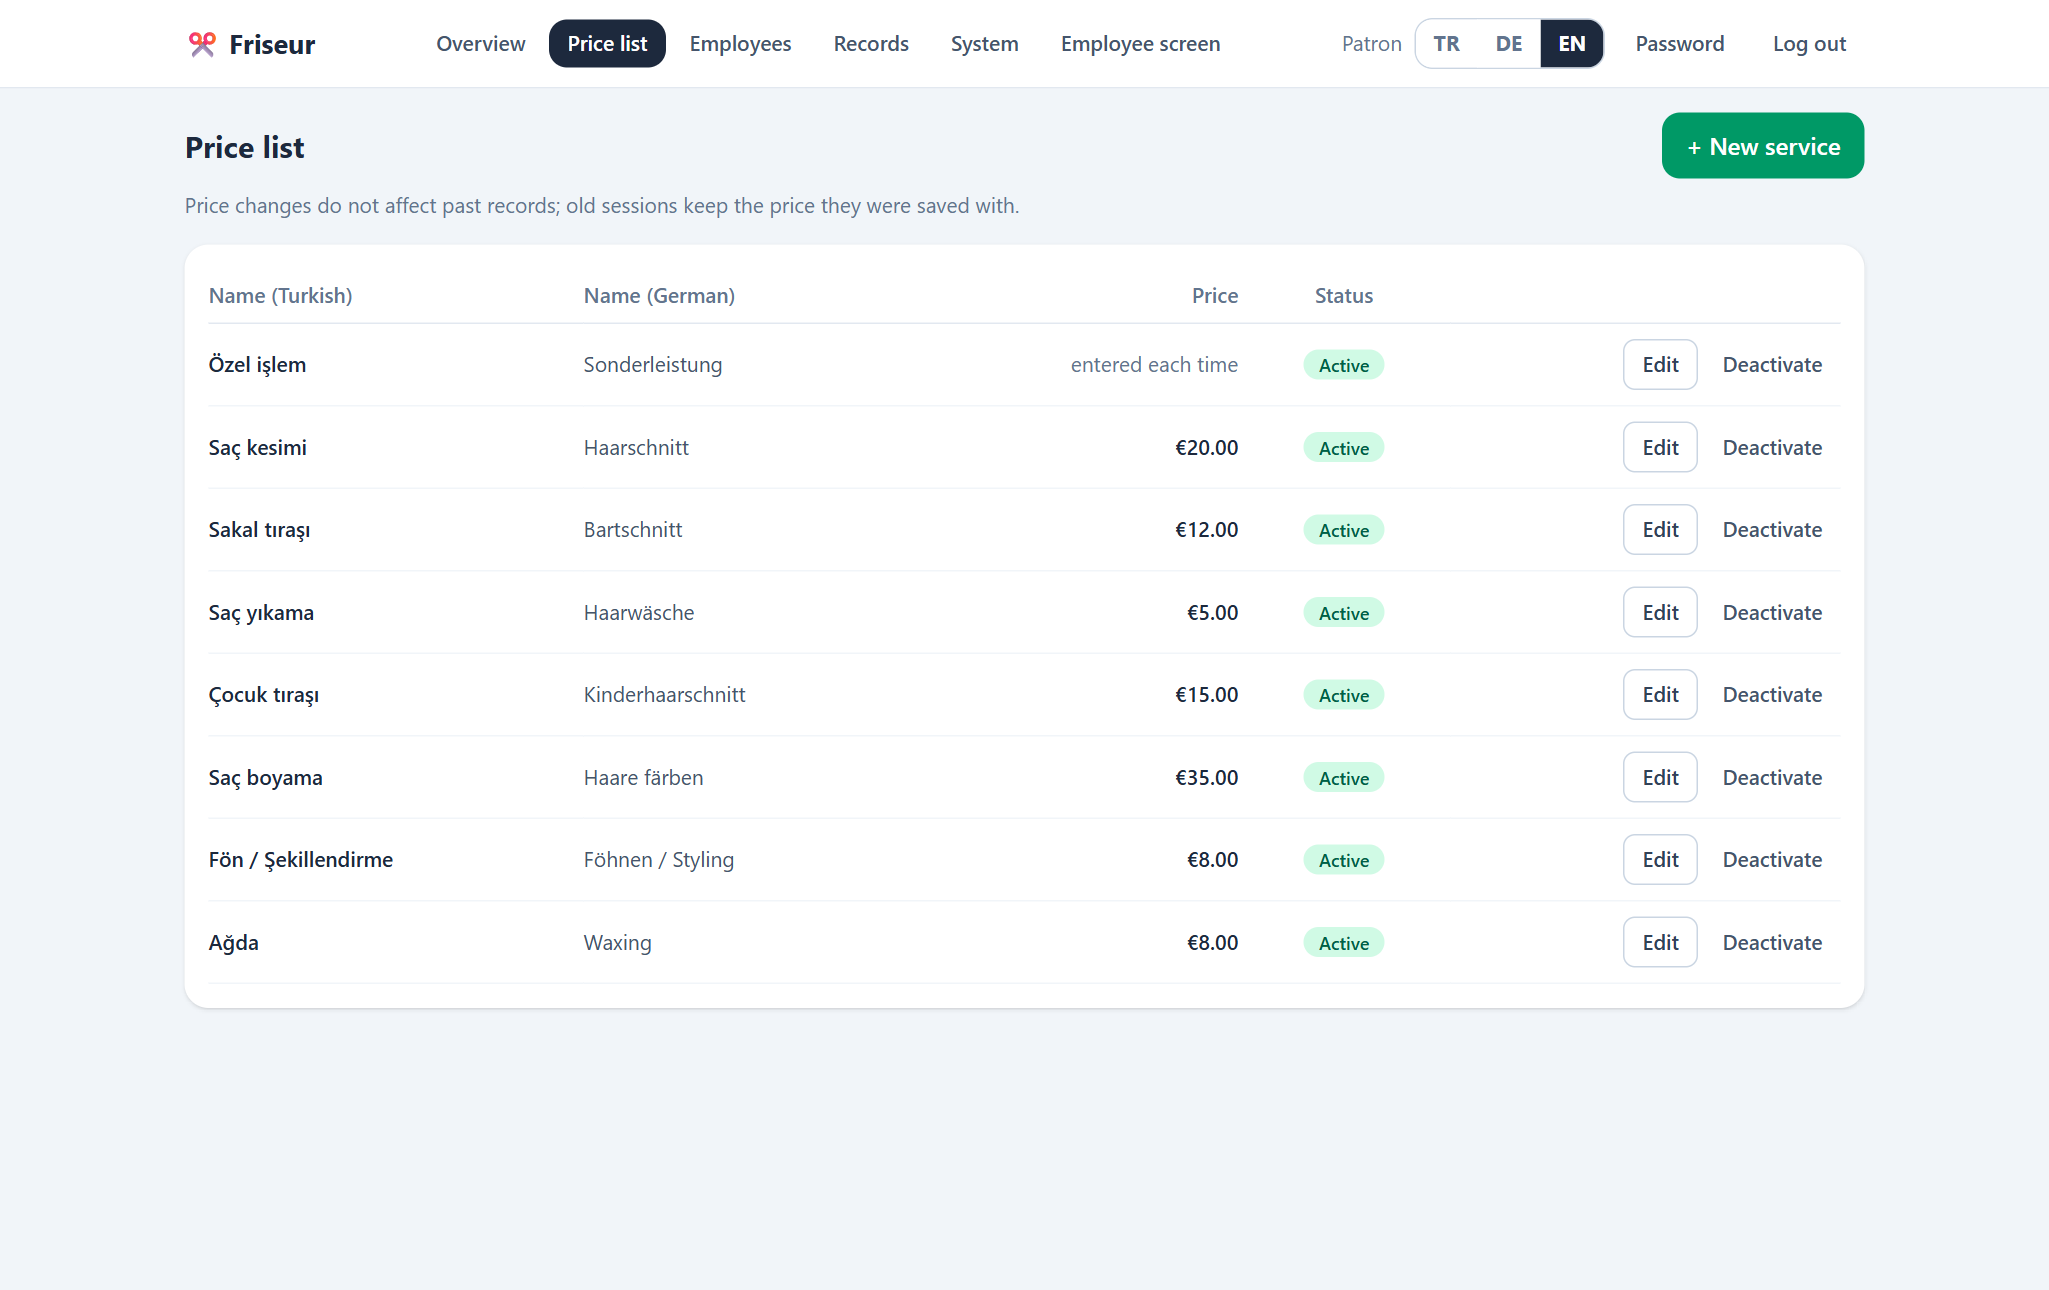
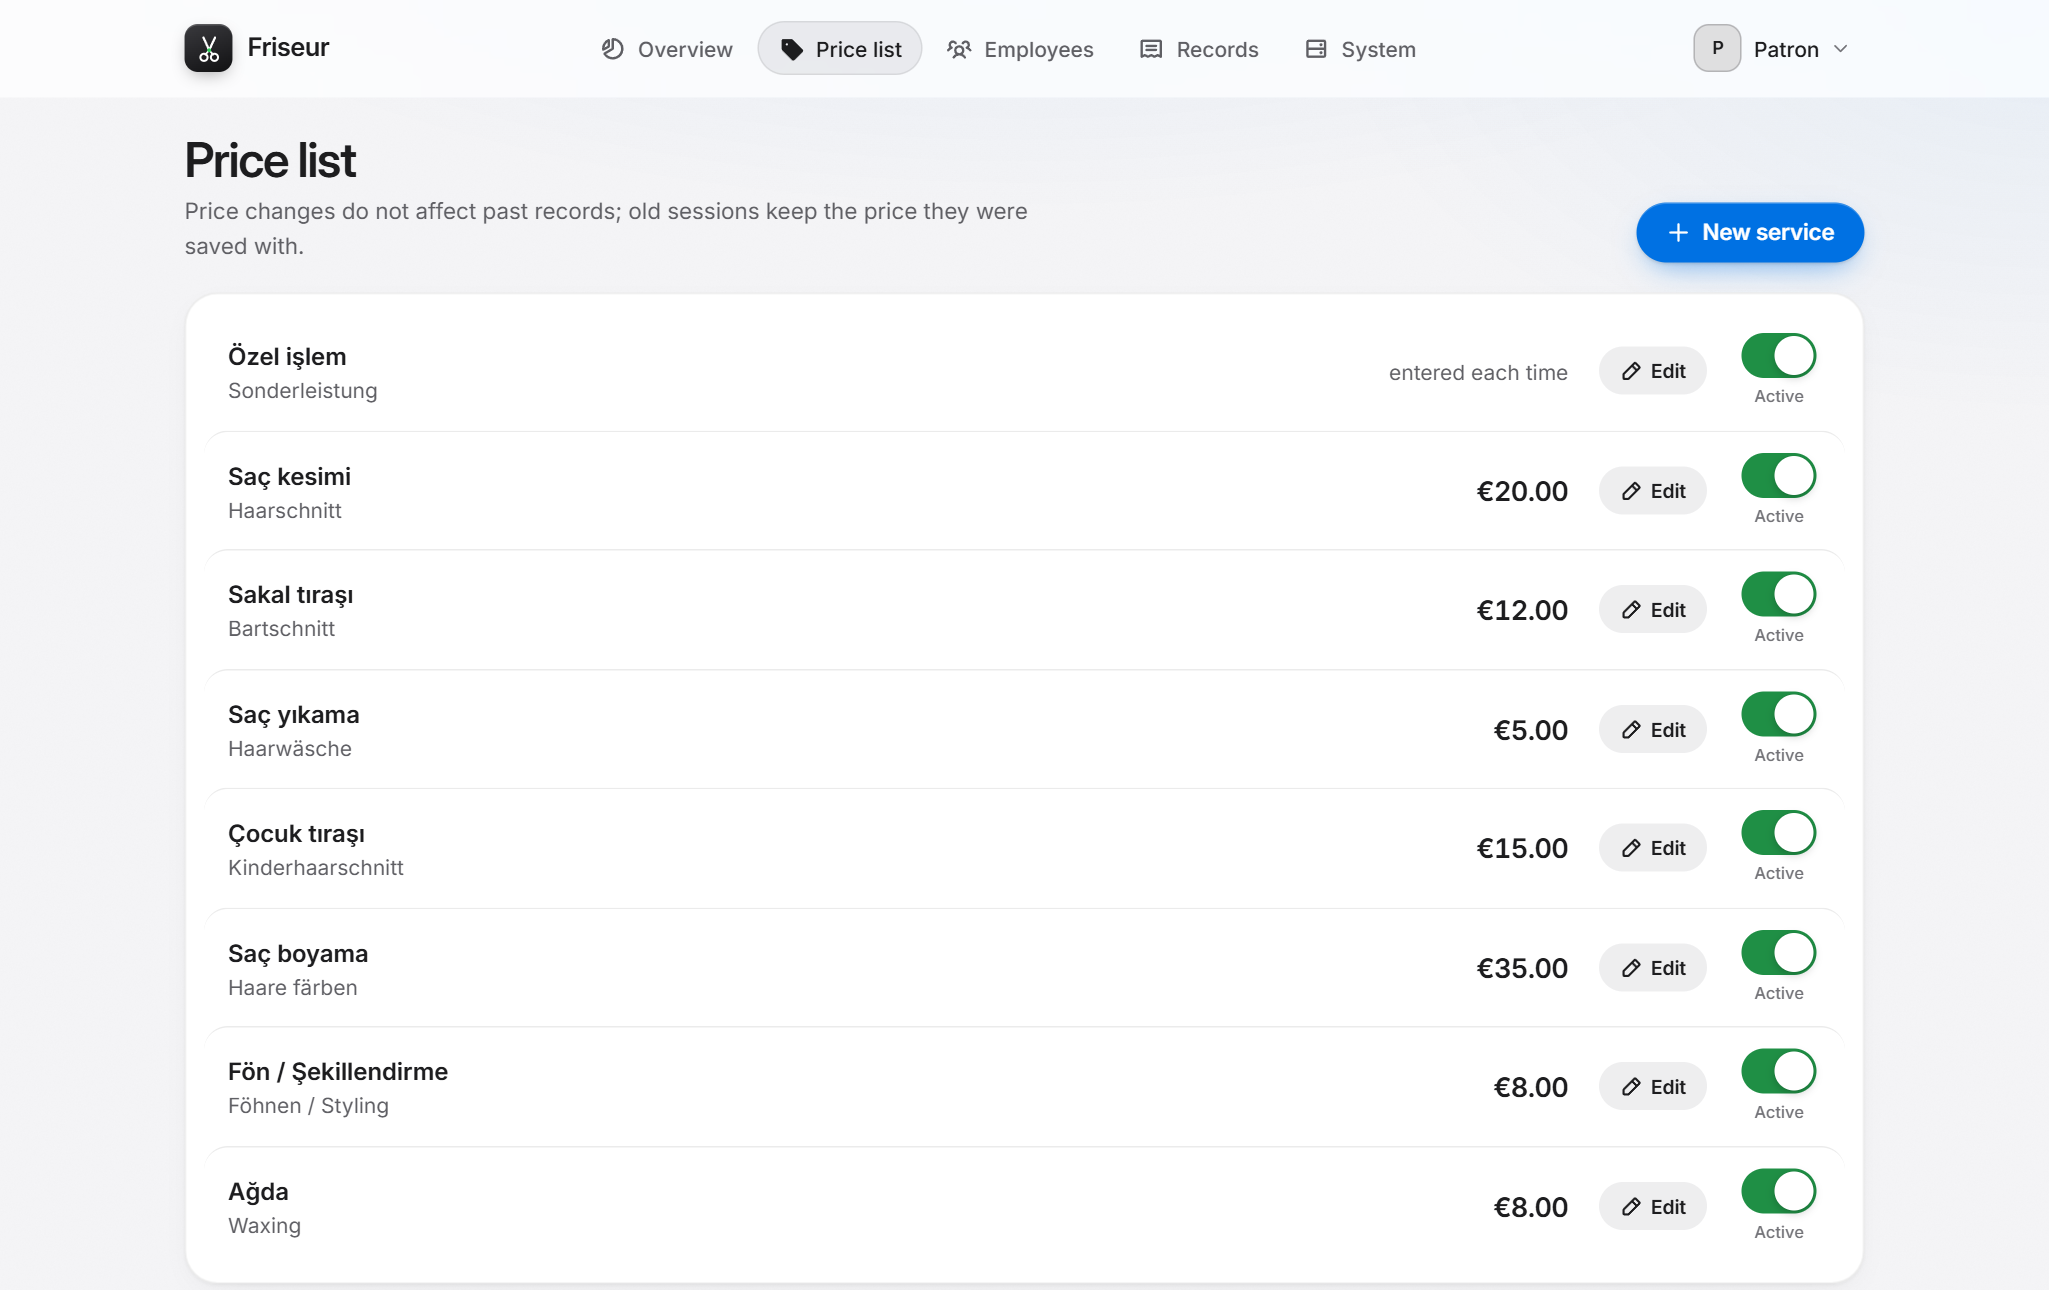
Update the screenshots and docs for the new interface
Every screen in the README retaken at the same sizes as before, on demo
data. The stack line now lists Motion, the feature list mentions the light
and dark theme, and the architecture notes give the bundle's current size.

diff --git a/README.md b/README.md
@@ -7,7 +7,7 @@
 
 A tablet-first web app for a hair salon. Employees tap **Start** when a customer sits down and pick the services when they finish; the owner gets revenue, employee performance and the service mix on a dashboard. Built for a real salon in Germany and designed to be run by its owner, who is not technical: it backs itself up every night, mails when something is wrong, and has a one-command admin menu for everything else.
 
-**Stack:** React 19 · TypeScript · Vite · Tailwind 4 · Recharts · Fastify 5 · Prisma 6 · PostgreSQL 17 · Docker Compose · Vitest
+**Stack:** React 19 · TypeScript · Vite · Tailwind 4 · Motion · Recharts · Fastify 5 · Prisma 6 · PostgreSQL 17 · Docker Compose · Vitest
 
 ![Owner dashboard](docs/screenshots/dashboard.png)
 
@@ -42,6 +42,7 @@ The owner wanted to see how many customers each employee serves, what each servi
 - `friseur` admin menu over SSH: status, restart, logs, backup, restore, password reset, update, cleanup
 - Two publish modes: private over Tailscale (default) or public on a domain behind a shared password gate, switched with one line in `.env`
 - Interface in Turkish, German and English, chosen per user
+- Light and dark theme, following the device's setting
 
 | Customer in the chair | Finishing | My day |
 | --- | --- | --- |

diff --git a/docs/architecture.md b/docs/architecture.md
@@ -185,6 +185,6 @@ Errors are `{ "error": "<code>" }`; the web app maps each code to a translated m
   the JWT). Deactivating an account does.
 - There is no per-username lockout, only the per-IP rate limit (plus the gate in public
   mode).
-- The web bundle is about 740 KB, mostly Recharts. Lazy-loading the admin pages would
-  halve the tablet's first load.
+- The web bundle is about 1.1 MB (320 KB gzipped), Recharts the largest part of it.
+  Lazy-loading the admin pages would cut the tablet's first load considerably.
 - Recharts is kept on v2 on purpose; the v3 migration has not been done.
